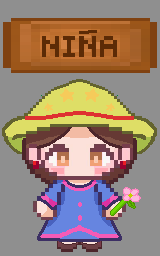
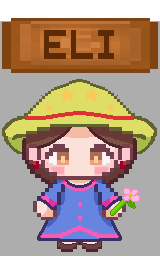
Desarrollo del menu completado

diff --git a/menu.py b/menu.py
@@ -5,61 +5,96 @@ from button import Button
 import main
 import config
 import nivels
-#prueba
-pygame.init() #Inicializar pygame
 
-if config.music: #Reproducir las instruciones para que se reprodusca la musica del juego si la variable music que se encuentra en config es true que es verdadero
+pygame.init()
+
+if config.music:
     pygame.mixer.init()
-    pygame.mixer.music.load('music/prueba1.mp3')  #Ruta al archivo de música
-    pygame.mixer.music.play(-1)#Reproducir la música
+    pygame.mixer.music.load('music/prueba1.mp3')
+    pygame.mixer.music.play(-1)
 
-#ventana
 screen = pygame.display.set_mode((constants.WIDTH, constants.HEIGHT))
 pygame.display.set_caption("The Last Seed")
 
-#imágenes
-Fondo = pygame.image.load("imagenes\portada.png")
-button_config = pygame.image.load("imagenes\confi.png")
+Fondo = pygame.image.load("imagenes\\portada.png")
+button_config = pygame.image.load("imagenes\\confi.png")
+title_img = pygame.image.load("imagenes\\titulo1.png").convert_alpha()
 
-#escalar imágenes
+title_img = pygame.transform.scale(
+    title_img,
+    (
+        int(title_img.get_width() * 0.90),
+        int(title_img.get_height() * 0.90)
+    )
+)
+
+title_rect = title_img.get_rect(center=(constants.WIDTH // 2, 250))
+
 Fondo = pygame.transform.scale(Fondo, (constants.WIDTH, constants.HEIGHT))
-button_config = pygame.transform.scale(button_config, ( 120, 100))
+button_config = pygame.transform.scale(button_config, (120, 100))
 
+config_button = Button(
+    150 // 2 - button_config.get_width() // 2,
+    800 // 2 - button_config.get_height() // 2,
+    button_config, 1
+)
 
-#botones 
-    #config
-config_button = Button( 150 // 2 - button_config.get_width() // 2, 800 // 2 - button_config.get_height() // 2, button_config, 1)
-
-#Bucle
 def menu():
     run = True
     while run:
-        # Cargar imágenes dinámicamente según el lenguaje
-        if config.lenguaje:  # Inglés
-            button_play = pygame.image.load("imagenes\Play.png")
-            button_exit = pygame.image.load("imagenes\Exit.png")
-        else:  # Español
-            button_play = pygame.image.load("imagenes\Jugar.png")
-            button_exit = pygame.image.load("imagenes\Salida.png")
 
-        # Escalar imágenes
-        button_play = pygame.transform.scale(button_play, (300, 100))
-        button_exit = pygame.transform.scale(button_exit, (200, 100))
+        # PLAY NORMAL Y HOVER SEGÚN IDIOMA
+        if config.lenguaje:
+            play_normal = pygame.image.load("imagenes\\Play.png")
+            play_hover = pygame.image.load("imagenes\\PlayR.png")
+            exit_img = pygame.image.load("imagenes\\Exit.png")
+        else:
+            play_normal = pygame.image.load("imagenes\\Jugar.png")
+            play_hover = pygame.image.load("imagenes\\JugarR.png")
+            exit_img = pygame.image.load("imagenes\\Salida.png")
 
-        # Actualizar botones
-        play_button = Button(780 // 2 - button_play.get_width() // 2, 500 // 2 - button_play.get_height() // 2, button_play, 1)
-        exit_button = Button(780 // 2 - button_exit.get_width() // 2, 800 // 2 - button_exit.get_height() // 2, button_exit, 1)
+        play_normal = pygame.transform.scale(play_normal, (300, 100))
+        play_hover = pygame.transform.scale(play_hover, (300, 100))
+        exit_img = pygame.transform.scale(exit_img, (200, 100))
 
-        # Dibujar fondo
+        # BOTÓN PLAY (con hover manual)
+        mouse_pos = pygame.mouse.get_pos()
+
+        play_rect = play_normal.get_rect(
+            center=(780 // 2, 500 // 2)
+        )
+
+        if play_rect.collidepoint(mouse_pos):
+            play_button_img = play_hover
+        else:
+            play_button_img = play_normal
+
+        play_button = Button(
+            play_rect.x,
+            play_rect.y,
+            play_button_img,
+            1
+        )
+
+        # BOTÓN EXIT (sin hover porque no lo pediste)
+        exit_button = Button(
+            780 // 2 - exit_img.get_width() // 2,
+            800 // 2 - exit_img.get_height() // 2,
+            exit_img, 1
+        )
+
         screen.blit(Fondo, (0, 0))
+        screen.blit(title_img, title_rect)
 
-        # Dibujar botones
+        # DRAW PLAY
         if play_button.draw(screen):
-            nivels.niveles()  # Llama al menú de niveles
+            nivels.niveles()
 
+        # DRAW CONFIG
         if config_button.draw(screen):
-            config.config_menu()  # Llama al menú de configuración
+            config.config_menu()
 
+        # DRAW EXIT
         if exit_button.draw(screen):
             pygame.quit()
 
@@ -68,7 +103,7 @@ def menu():
                 pygame.quit()
                 sys.exit()
 
-        pygame.display.update()  # Actualiza la pantalla
+        pygame.display.update()
 
 def main_loop():
     main.main()

diff --git a/nivels.py b/nivels.py
@@ -3,57 +3,83 @@ import sys
 import config
 import constants
 from button import Button
-import main  # Nivel 1
-import nivel_2  # Nivel 2
+import select_character
 
 pygame.init()
 
-# ventana
 screen = pygame.display.set_mode((constants.WIDTH, constants.HEIGHT))
-pygame.display.set_caption("nivels")
+pygame.display.set_caption("niveles")
 
-# imágenes
 Fondo = pygame.image.load("imagenes/portada.png")
 Fondo = pygame.transform.scale(Fondo, (constants.WIDTH, constants.HEIGHT))
 
-# imagen que depende del idioma del juego para los botones
-if config.lenguaje:
-    button_nivel_1 = pygame.image.load("assets/images/effects/nivel 1.png")
-    button_nivel_2 = pygame.image.load("assets/images/effects/nivel 2.png")
-else:
-    button_nivel_1 = pygame.image.load("assets/images/effects/nivel 1.png")
-    button_nivel_2 = pygame.image.load("assets/images/effects/nivel 2.png")
+title_img = pygame.image.load("imagenes/titulo1.png").convert_alpha()
+title_img = pygame.transform.scale(
+    title_img,
+    (
+        int(title_img.get_width() * 0.90),
+        int(title_img.get_height() * 0.90)
+    )
+)
+title_rect = title_img.get_rect(center=(constants.WIDTH // 2, 250))
 
-# Escalar imágenes y crear botones
-button_nivel_1 = pygame.transform.scale(button_nivel_1, (322, 161))
-button_nivel_1 = Button(480 // 2 - button_nivel_1.get_width() // 2, 700 // 2 - button_nivel_1.get_height() // 2, button_nivel_1, 1)
+def load_btn(name):
+    return pygame.image.load(f"assets/images/effects/{name}.png").convert_alpha()
 
-button_nivel_2 = pygame.transform.scale(button_nivel_2, (322, 161))
-button_nivel_2 = Button(1080 // 2 - button_nivel_2.get_width() // 2, 700 // 2 - button_nivel_2.get_height() // 2, button_nivel_2, 1)
+nivel1     = load_btn("nivel1")
+nivel1R    = load_btn("nivel1R")
+nivel2     = load_btn("nivel2")
+nivel2R    = load_btn("nivel2R")
+nivel3     = load_btn("nivel3")
+nivel3R    = load_btn("nivel3R")
 
-# Bucle principal
+target_width = 200
+def scale(img):
+    h = int(img.get_height() * (target_width / img.get_width()))
+    return pygame.transform.scale(img, (target_width, h))
+
+nivel1  = scale(nivel1)
+nivel1R = scale(nivel1R)
+nivel2  = scale(nivel2)
+nivel2R = scale(nivel2R)
+nivel3  = scale(nivel3)
+nivel3R = scale(nivel3R)
+
+spacing = 70
+total_width = target_width * 3 + spacing * 2
+start_x = (constants.WIDTH - total_width) // 2
+y_pos = constants.HEIGHT // 2 + 80
+
+buttons = [
+    {"normal": nivel1, "hover": nivel1R, "rect": pygame.Rect(start_x, y_pos, target_width, nivel1.get_height()), "lvl": 1},
+    {"normal": nivel2, "hover": nivel2R, "rect": pygame.Rect(start_x + target_width + spacing, y_pos, target_width, nivel2.get_height()), "lvl": 2},
+    {"normal": nivel3, "hover": nivel3R, "rect": pygame.Rect(start_x + (target_width + spacing) * 2, y_pos, target_width, nivel3.get_height()), "lvl": 3},
+]
+
 def niveles():
     run = True
     while run:
         screen.blit(Fondo, (0, 0))
+        screen.blit(title_img, title_rect)
 
-        # Dibujar botones
-        if button_nivel_1.draw(screen):
-            import select_character
-            select_character.show(level=1)  # Nueva pantalla antes de iniciar nivel 1
+        mouse_pos = pygame.mouse.get_pos()
+        click = pygame.mouse.get_pressed()[0]
 
-        if button_nivel_2.draw(screen):
-            import select_character
-            select_character.show(level=2)  # Nueva pantalla antes de iniciar nivel 2
+        for b in buttons:
+            hovered = b["rect"].collidepoint(mouse_pos)
+            img = b["hover"] if hovered else b["normal"]
+            screen.blit(img, b["rect"])
+            if hovered and click:
+                pygame.time.delay(150)
+                select_character.show(level=b["lvl"])
 
-        # Eventos
         for event in pygame.event.get():
             if event.type == pygame.QUIT:
                 pygame.quit()
                 sys.exit()
             if event.type == pygame.KEYDOWN:
                 if event.key == pygame.K_ESCAPE:
-                    run = False
+                    return
 
         pygame.display.update()
 

diff --git a/select_character.py b/select_character.py
@@ -18,19 +18,21 @@ def load_image(name, scale=1.0):
         image = pygame.transform.scale(image, (w, h))
     return image
 
-# Fondo del menú
 background = load_image("portada.png")
 background = pygame.transform.scale(background, (constants.WIDTH, constants.HEIGHT))
 
-# Personajes (normal / hover)
+title_img = load_image("seleccionPj.png")
+
 boy_normal = load_image("seleccionNiño.png")
 boy_hover = load_image("seleccionNiño2.png")
 girl_normal = load_image("seleccionNiña.png")
 girl_hover = load_image("seleccionNiña2.png")
 
-# Dificultades
-normal_img = load_image("normal.png", 0.45)
+normal_img = load_image("principiante.png", 0.45)
+normal_hover = load_image("principianteR.png", 0.45)
+
 hard_img = load_image("avanzado.png", 0.45)
+hard_hover = load_image("avanzadoR.png", 0.45)
 
 class HoverButton:
     def __init__(self, x, y, normal_img, hover_img, name):
@@ -46,10 +48,12 @@ class HoverButton:
         self.hovered = self.rect.collidepoint(pos)
         img = self.hover if (self.hovered or self.selected) else self.normal
         surface.blit(img, self.rect)
+
         clicked = False
         if self.hovered and pygame.mouse.get_pressed()[0]:
             self.selected = True
             clicked = True
+
         return clicked
 
 class Button:
@@ -73,26 +77,31 @@ def show(level=1):
     selected_character = None
     selected_difficulty = None
 
-    # Posicionamiento centrado
     center_x = constants.WIDTH // 2
-    center_y = constants.HEIGHT // 2 - 50
 
-    # Personajes
+    title_rect = title_img.get_rect(midtop=(center_x, int(constants.HEIGHT * 0.001)))
+
+    character_y = constants.HEIGHT // 2 + 60
+
     spacing_x = 230
     boy_x = center_x - spacing_x
     girl_x = center_x + spacing_x
-    character_y = center_y - 60
 
     boy_btn = HoverButton(boy_x, character_y, boy_normal, boy_hover, "niño")
     girl_btn = HoverButton(girl_x, character_y, girl_normal, girl_hover, "niña")
 
-    # Dificultades — centradas bajo cada personaje
-    difficulty_y = center_y + 160
-    normal_x = boy_x
-    hard_x = girl_x
+    gap_center_x = center_x
+    diff_top_y = character_y - int(constants.HEIGHT * 0.05)
 
-    normal_btn = Button(normal_x, difficulty_y, normal_img, "normal")
-    hard_btn = Button(hard_x, difficulty_y, hard_img, "avanzado")
+    normal_btn = HoverButton(gap_center_x, diff_top_y, normal_img, normal_hover, "normal")
+
+    hard_btn = HoverButton(
+        gap_center_x,
+        diff_top_y + normal_img.get_height() + int(constants.HEIGHT * 0.03),
+        hard_img,
+        hard_hover,
+        "avanzado"
+    )
 
     while True:
         for event in pygame.event.get():
@@ -101,28 +110,28 @@ def show(level=1):
                 sys.exit()
 
         screen.blit(background, (0, 0))
+        screen.blit(title_img, title_rect)
 
-        # Dibujar y gestionar personajes
         if boy_btn.draw(screen):
             selected_character = "niño"
             boy_btn.selected = True
             girl_btn.selected = False
+
         if girl_btn.draw(screen):
             selected_character = "niña"
             girl_btn.selected = True
             boy_btn.selected = False
 
-        # Dibujar y gestionar dificultad
         if normal_btn.draw(screen):
             selected_difficulty = "normal"
             normal_btn.selected = True
             hard_btn.selected = False
+
         if hard_btn.draw(screen):
             selected_difficulty = "avanzado"
             hard_btn.selected = True
             normal_btn.selected = False
 
-        # Si ambas selecciones están listas, avanzar
         if selected_character and selected_difficulty:
             config.selected_character = selected_character
             config.difficulty = selected_difficulty

diff --git a/main.py b/main.py
@@ -14,8 +14,8 @@ pygame.init()
 screen = pygame.display.set_mode((constants.WIDTH, constants.HEIGHT))
 pygame.display.set_caption("The Last Seed")
 
-victory_img = pygame.image.load(os.path.join('assets', 'images', 'effects', 'victoria.png')).convert_alpha()
-defeat_img = pygame.image.load(os.path.join('assets', 'images', 'effects', 'derrota.png')).convert_alpha()
+victory_img = pygame.image.load(os.path.join('assets', 'images', 'effects', 'ganar.png')).convert_alpha()
+defeat_img = pygame.image.load(os.path.join('assets', 'images', 'effects', 'perder.png')).convert_alpha()
 victory_img = pygame.transform.scale(victory_img, (constants.WIDTH, constants.HEIGHT))
 defeat_img = pygame.transform.scale(defeat_img, (constants.WIDTH, constants.HEIGHT))
 

diff --git a/character.py b/character.py
@@ -9,7 +9,7 @@ class Character:
         self.x = x
         self.y = y
 
-        # ✅ Cargar sprite según personaje seleccionado
+
         if hasattr(config, "selected_character"):
             if config.selected_character == "niña":
                 image_path = os.path.join('assets', 'images', 'character', 'Eli.png')
